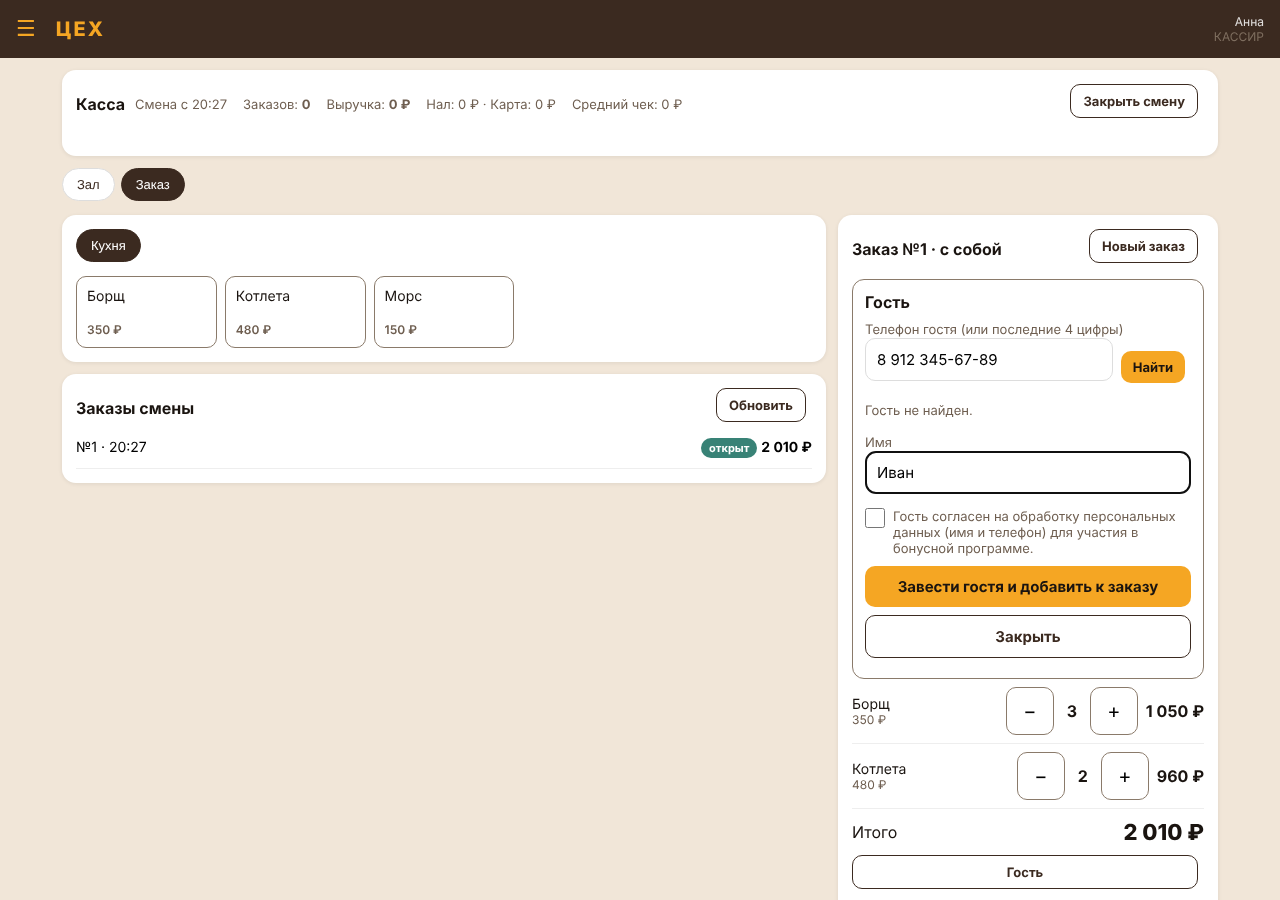
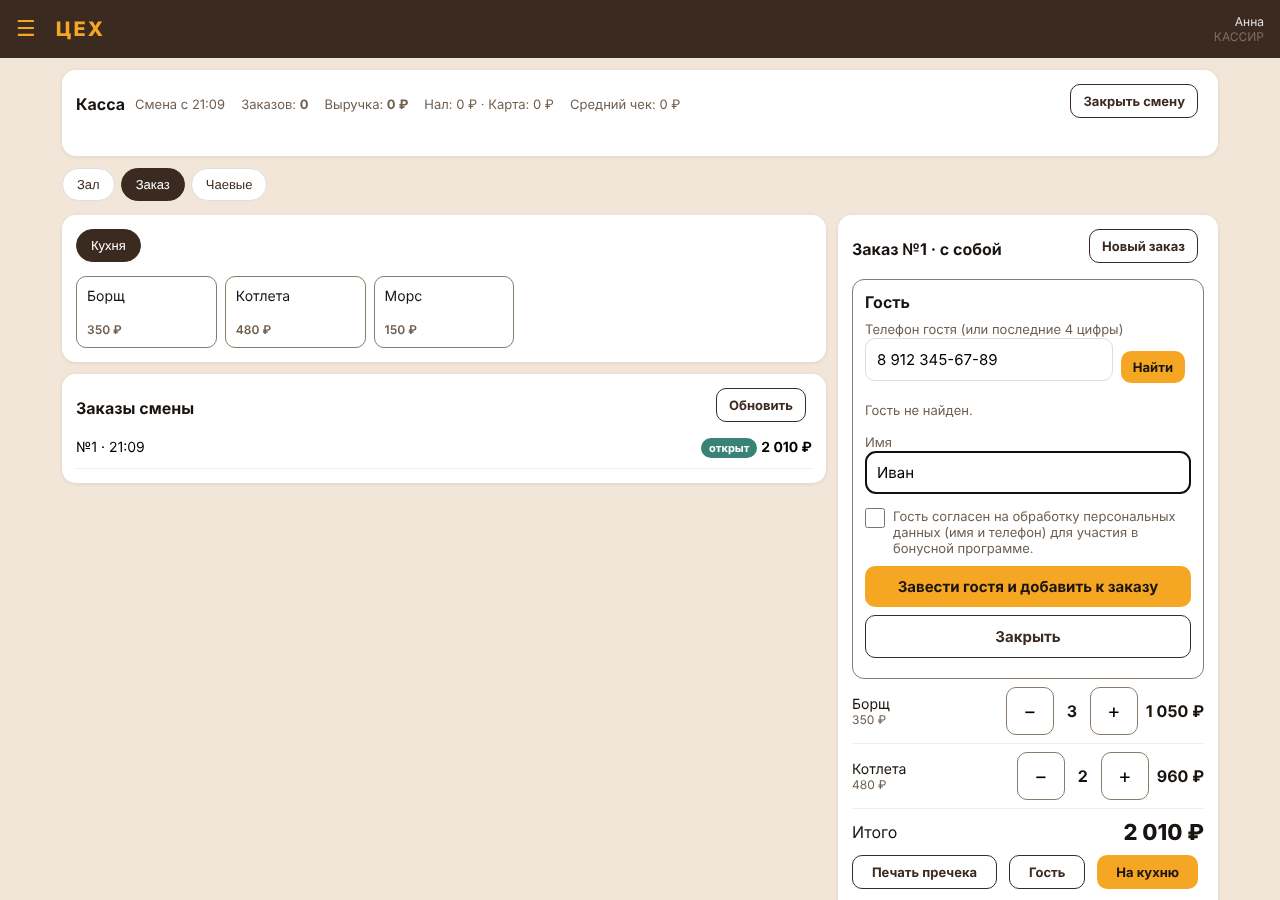
QA: исправлены 3 ошибки кассы, установщик для закрытого репозитория
B3 (S1): getAllRows_ клал весь лист в CacheService; значение больше 100 КБ кэш
не принимает и бросает исключение — растущие листы ронявали бы все операции.
Теперь кэш при переполнении пропускается (Database.gs, SystemHardening.gs).
B1 (S2): заказ «с собой» не доходил до кухни — при оплате неотправленные позиции
уходят на кухню, кнопка «На кухню» для любого заказа.
B2 (S2): пустой заказ блокировал закрытие смены — пустые заказы отменяются при
закрытии, POS_DISCARD_EMPTY_ORDER и кнопка «Убрать пустой заказ».

Установщик: GITHUB_TOKEN и TSEKH_REF из свойств скрипта, файлы через API GitHub
(работает с закрытым репозиторием), понятная ошибка без токена.
replica/bugs.md, replica/test-plan.md; тесты pos_bugs_test.js, installer_test.js;
стенд эмулирует лимит кэша 100 КБ.

Claude-Session: https://claude.ai/code/session_01TtYS2sTh7C8pE1SCJzegNd

Changed region(s): [[0.1562, 0.0933, 0.5312, 0.1244], [0.6875, 0.9333, 0.9375, 0.9956], [0.125, 0.1867, 0.2188, 0.2489]]

diff --git a/replica/tests/pos_bugs_test.js b/replica/tests/pos_bugs_test.js
@@ -1,0 +1,59 @@
+// Регрессия по найденным ошибкам (replica/bugs.md). Запуск: node replica/tests/pos_bugs_test.js
+const assert = require('assert');
+const { ctx: G } = require('./harness.js');
+let failures = 0;
+function step(name, fn) {
+  try { const r = fn(); console.log('OK   ', name); return r; }
+  catch (e) { failures++; console.log('FAIL ', name, '—', e && e.message); }
+}
+function api(a, d, t) { const r = G.processOperation(a, d || {}, t); if (!r.ok) throw new Error(a + ': ' + r.error); return r.data; }
+function apiErr(a, d, t) { const r = G.processOperation(a, d || {}, t); assert(!r.ok, a + ' должен был вернуть ошибку'); return r.error; }
+
+G.PropertiesService.getScriptProperties().setProperty('SPREADSHEET_ID', 'SS');
+G.initializeDatabase();
+G.insertRow_('ORGANIZATIONS', { organization_id: 'ORG-1', название: 'Кафе', статус: 'активна' });
+G.insertRow_('LOCATIONS', { location_id: 'LOC-1', organization_id: 'ORG-1', название: 'Точка', статус: 'активна' });
+function mk(id, role, pin) { const s = 's' + id; G.insertRow_('USERS', { user_id: id, organization_id: 'ORG-1', location_ids: 'LOC-1', имя: role, роль: role, статус: 'активен', pin_hash: G.hashPin_(pin, s), pin_salt: s, failed_attempts: 0, lockout_count: 0 }); }
+mk('USR-M', 'МЕНЕДЖЕР', '482915'); mk('USR-K', 'КАССИР', '739164'); mk('USR-W', 'ОФИЦИАНТ', '615283'); mk('USR-C', 'ПОВАР', '927364');
+G.insertRow_('DISHES', { dish_id: 'DISH-1', organization_id: 'ORG-1', название: 'Борщ', цена_продажи: 350, статус: 'активно' });
+function login(u, p) { const d = api('LOGIN', { userId: u, pin: p }); return d.requires_location ? (api('SELECT_LOCATION', { locationId: 'LOC-1' }, d.token).token || d.token) : d.token; }
+const tM = login('USR-M', '482915'), tK = login('USR-K', '739164'), tW = login('USR-W', '615283'), tC = login('USR-C', '927364');
+api('POS_OPEN_SHIFT', { cashStart: 0 }, tK);
+const hall = api('POS_SAVE_HALL', { название: 'Зал' }, tM);
+const t1 = api('POS_SAVE_TABLE', { hallId: hall.hall_id, название: '1' }, tM);
+
+step('B1: заказ «с собой» после оплаты попадает на экран кухни', () => {
+  let v = api('POS_CREATE_ORDER', {}, tK);
+  v = api('POS_ADD_LINE', { orderId: v.order.order_id, dishId: 'DISH-1', qty: 2, version: v.order.version }, tK);
+  api('POS_PAY', { orderId: v.order.order_id, version: v.order.version, operationId: 'B1', payments: [{ способ: 'карта', сумма: 700 }] }, tK);
+  const q = api('POS_GET_KITCHEN_QUEUE', {}, tC);
+  assert(q.some(x => x.order_id === v.order.order_id && x.стол === 'с собой' && x.статус === 'на_кухне'), 'в очереди кухни нет заказа с собой');
+});
+step('B2: пустой заказ на столе не блокирует закрытие смены кассиром', () => {
+  api('POS_CREATE_ORDER', { tableId: t1.table_id }, tW); // официант открыл стол и ничего не добавил
+  api('POS_CLOSE_SHIFT', { cashFact: 0 }, tK);
+  assert.equal(G.findRows_('POS_ORDERS', o => o.table_id === t1.table_id)[0].статус, 'отменён');
+  api('POS_OPEN_SHIFT', { cashStart: 0 }, tK);
+});
+step('B2: официант сам убирает свой пустой заказ, но не заказ с позициями', () => {
+  const v = api('POS_CREATE_ORDER', { tableId: t1.table_id }, tW);
+  api('POS_DISCARD_EMPTY_ORDER', { orderId: v.order.order_id }, tW);
+  assert.equal(api('POS_GET_FLOOR', {}, tW).halls[0].tables[0].статус, 'свободен');
+  let v2 = api('POS_CREATE_ORDER', { tableId: t1.table_id }, tW);
+  v2 = api('POS_ADD_LINE', { orderId: v2.order.order_id, dishId: 'DISH-1', version: v2.order.version }, tW);
+  assert(/есть позиции/.test(apiErr('POS_DISCARD_EMPTY_ORDER', { orderId: v2.order.order_id }, tW)));
+  api('POS_CANCEL_ORDER', { orderId: v2.order.order_id, reason: 'тест' }, tM);
+});
+step('B3: касса работает, когда лист заказов больше лимита кэша (100 КБ)', () => {
+  // ~900 оплаченных заказов дают POS_ORDERS и POS_ORDER_LINES больше 100 КБ.
+  for (let i = 0; i < 900; i++) {
+    G.insertRow_('POS_ORDERS', { order_id: 'PORD-BULK' + i, organization_id: 'ORG-1', location_id: 'LOC-1', shift_id: 'PSH-OLD', table_id: '', официант_id: 'USR-K',
+      номер: i + 1, гостей: 0, статус: 'оплачен', сумма: 350, скидка: 0, итого: 350, комментарий: 'архивный заказ для проверки объёма', version: 2,
+      создано: G.nowIso_(), обновлено: G.nowIso_(), оплачен: G.nowIso_(), cascade_id: 'CSC-' + i });
+  }
+  const v = api('POS_CREATE_ORDER', {}, tK);
+  assert(v.order.order_id);
+  assert(Array.isArray(api('POS_GET_ORDERS', {}, tK)));
+});
+console.log(failures ? '\n' + failures + ' FAILED' : '\nALL PASSED');
+process.exit(failures ? 1 : 0);

diff --git a/replica/clone-screens/M8-qrmenu.html b/replica/clone-screens/M8-qrmenu.html
@@ -1,1 +1,1 @@
-<!doctype html><html lang="ru"><head><meta charset="utf-8"><style>:root{--bg:#F1E6D8;--card:#FFFFFF;--ink:#1A1410;--muted:#6E5E50;--brand:#3B2A20;--accent:#F5A623;--line:#E5DDD3;}*{box-sizing:border-box}body{margin:0;background:var(--bg);color:var(--ink);font-family:-apple-system,Segoe UI,Roboto,Arial,sans-serif;}header{background:var(--brand);color:#fff;padding:16px;position:sticky;top:0;z-index:2}header h1{margin:0;font-size:20px;color:var(--accent);letter-spacing:.5px}header p{margin:4px 0 0;font-size:13px;opacity:.85}nav{display:flex;gap:6px;overflow-x:auto;padding:10px 16px;background:var(--bg);position:sticky;top:68px;z-index:1;-webkit-overflow-scrolling:touch}nav a{flex:none;padding:8px 14px;border-radius:20px;border:1px solid var(--brand);color:var(--brand);text-decoration:none;font-size:14px;background:var(--card)}main{max-width:720px;margin:0 auto;padding:0 16px 32px}h2{font-size:18px;margin:18px 0 8px;scroll-margin-top:130px}.dish{background:var(--card);border-radius:14px;padding:14px;margin-bottom:10px;box-shadow:0 1px 4px rgba(0,0,0,.06)}.top{display:flex;justify-content:space-between;gap:12px;align-items:baseline}.name{font-weight:700;font-size:16px;overflow-wrap:anywhere}.price{font-weight:800;white-space:nowrap}.meta{color:var(--muted);font-size:13px;margin-top:4px}.allerg{font-size:13px;margin-top:6px;padding:6px 8px;border-radius:8px;background:#FFF6E5}.var{font-size:13px;color:var(--muted);margin-top:6px}.var b{color:var(--ink);font-weight:600}footer{color:var(--muted);font-size:12px;text-align:center;padding:16px}.empty{padding:40px 16px;text-align:center}</style></head><body><header><h1>Кафе «Печка»</h1><p>Стол 7 · Чтобы заказать, позовите официанта</p></header><main><h2 id="c0">Супы</h2><article class="dish"><div class="top"><span class="name">Солянка &lt;script&gt;alert(1)&lt;/script&gt;</span><span class="price">390 ₽</span></div></article><article class="dish"><div class="top"><span class="name">Уха</span><span class="price">420 ₽</span></div></article></main><footer>Цены в рублях. Наличие блюд обновляется каждые 15 минут · обновлено 10-06 20:41.</footer></body></html>
+<!doctype html><html lang="ru"><head><meta charset="utf-8"><style>:root{--bg:#F1E6D8;--card:#FFFFFF;--ink:#1A1410;--muted:#6E5E50;--brand:#3B2A20;--accent:#F5A623;--line:#E5DDD3;}*{box-sizing:border-box}body{margin:0;background:var(--bg);color:var(--ink);font-family:-apple-system,Segoe UI,Roboto,Arial,sans-serif;}header{background:var(--brand);color:#fff;padding:16px;position:sticky;top:0;z-index:2}header h1{margin:0;font-size:20px;color:var(--accent);letter-spacing:.5px}header p{margin:4px 0 0;font-size:13px;opacity:.85}nav{display:flex;gap:6px;overflow-x:auto;padding:10px 16px;background:var(--bg);position:sticky;top:68px;z-index:1;-webkit-overflow-scrolling:touch}nav a{flex:none;padding:8px 14px;border-radius:20px;border:1px solid var(--brand);color:var(--brand);text-decoration:none;font-size:14px;background:var(--card)}main{max-width:720px;margin:0 auto;padding:0 16px 32px}h2{font-size:18px;margin:18px 0 8px;scroll-margin-top:130px}.dish{background:var(--card);border-radius:14px;padding:14px;margin-bottom:10px;box-shadow:0 1px 4px rgba(0,0,0,.06)}.top{display:flex;justify-content:space-between;gap:12px;align-items:baseline}.name{font-weight:700;font-size:16px;overflow-wrap:anywhere}.price{font-weight:800;white-space:nowrap}.meta{color:var(--muted);font-size:13px;margin-top:4px}.allerg{font-size:13px;margin-top:6px;padding:6px 8px;border-radius:8px;background:#FFF6E5}.var{font-size:13px;color:var(--muted);margin-top:6px}.var b{color:var(--ink);font-weight:600}footer{color:var(--muted);font-size:12px;text-align:center;padding:16px}.empty{padding:40px 16px;text-align:center}</style></head><body><header><h1>Кафе «Печка»</h1><p>Стол 7 · Чтобы заказать, позовите официанта</p></header><main><h2 id="c0">Супы</h2><article class="dish"><div class="top"><span class="name">Солянка &lt;script&gt;alert(1)&lt;/script&gt;</span><span class="price">390 ₽</span></div></article><article class="dish"><div class="top"><span class="name">Уха</span><span class="price">420 ₽</span></div></article></main><footer>Цены в рублях. Наличие блюд обновляется каждые 15 минут · обновлено 10-06 21:09.</footer></body></html>

diff --git a/replica/tests/installer_test.js b/replica/tests/installer_test.js
@@ -1,0 +1,39 @@
+// Установщик install/Installer.gs с закрытым репозиторием (имитация GitHub). Запуск: node replica/tests/installer_test.js
+const assert = require('assert'), fs = require('fs'), path = require('path'), vm = require('vm');
+function run(props, privateRepo) {
+  const calls = [], put = {};
+  const resp = (code, body) => ({ getResponseCode: () => code, getContentText: () => body });
+  const authOk = h => !privateRepo || (h && h.Authorization === 'Bearer ghp_test');
+  const C = { JSON, String, encodeURIComponent, Logger: { log: m => { put.log = m; } },
+    SpreadsheetApp: { getActiveSpreadsheet: () => ({ getId: () => 'SS1' }) },
+    PropertiesService: { getScriptProperties: () => ({ getProperty: k => props[k] || null, setProperty: (k, v) => { props[k] = v; } }) },
+    ScriptApp: { getScriptId: () => 'SCRIPT', getOAuthToken: () => 'oauth' },
+    UrlFetchApp: {
+      fetch: (url, o) => {
+        calls.push({ url, headers: o && o.headers });
+        if (url.indexOf('script.googleapis.com') !== -1) { put.files = JSON.parse(o.payload).files; return resp(200, '{}'); }
+        if (!authOk(o.headers)) return resp(404, '{"message":"Not Found"}');
+        return resp(200, JSON.stringify({ sha: 'abc1234def', tree: [{ type: 'blob', path: 'gas/appsscript.json' }, { type: 'blob', path: 'gas/Pos.gs' }, { type: 'blob', path: 'qrmenu/Code.gs' }] }));
+      },
+      fetchAll: reqs => reqs.map(r => { calls.push({ url: r.url, headers: r.headers }); return authOk(r.headers) ? resp(200, '// ' + r.url) : resp(404, ''); })
+    } };
+  vm.createContext(C);
+  vm.runInContext(fs.readFileSync(path.join(__dirname, '../../install/Installer.gs'), 'utf8'), C);
+  try { C.installTsekh(); return { calls, put }; } catch (e) { return { calls, put, error: e.message }; }
+}
+// 1. Закрытый репозиторий без токена — понятная ошибка.
+let r = run({}, true);
+assert(/GITHUB_TOKEN/.test(r.error), r.error);
+// 2. С токеном и веткой из свойств — файлы через api.github.com с авторизацией, только gas/.
+r = run({ GITHUB_TOKEN: 'ghp_test', TSEKH_REF: 'claude/amazing-cori-nctye5' }, true);
+assert(!r.error, r.error);
+assert(r.calls[0].url.indexOf('/git/trees/claude%2Famazing-cori-nctye5') !== -1);
+const files = r.calls.filter(c => c.url.indexOf('/contents/') !== -1);
+assert.equal(files.length, 2);
+assert(files.every(c => c.url.startsWith('https://api.github.com/repos/tceh56-boop/Brave-haccp/contents/gas/') && c.headers.Authorization === 'Bearer ghp_test'));
+assert(!r.calls.some(c => c.url.indexOf('raw.githubusercontent.com') !== -1));
+assert.deepEqual(r.put.files.map(f => f.name).sort(), ['Pos', 'appsscript']);
+// 3. Публичный репозиторий без токена — работает как раньше.
+r = run({}, false);
+assert(!r.error, r.error);
+console.log('INSTALLER PASSED');

diff --git a/gas/Index.html b/gas/Index.html
@@ -5524,7 +5524,8 @@ function posRenderTicket() {
   var acts = [];
   if (o && POS.lines.length && (o.статус === 'открыт' || o.статус === 'пречек')) acts.push('<button class="btn small secondary" onclick="posPrintPrecheck()">Печать пречека</button>');
   if (live && !POS.guest) acts.push('<button class="btn small secondary" onclick="posToggleGuest(true)">Гость</button>');
-  if (o && o.статус === 'открыт' && POS.lines.some(function (l) { return l.статус === 'новая'; }) && (POS.table || posIsWaiter())) acts.push('<button class="btn small" onclick="posSendToKitchen()">На кухню</button>');
+  if (o && o.статус === 'открыт' && POS.lines.some(function (l) { return l.статус === 'новая'; })) acts.push('<button class="btn small" onclick="posSendToKitchen()">На кухню</button>');
+  if (o && o.статус === 'открыт' && !POS.lines.length) acts.push('<button class="btn small secondary" onclick="posDiscardEmpty()">Убрать пустой заказ</button>');
   if (o && o.статус === 'открыт' && POS.lines.length && POS.table) acts.push('<button class="btn small secondary" onclick="posPrecheck()">Пречек</button>');
   if (live && POS.table) acts.push('<button class="btn small secondary" onclick="posMoveOrder()">Перенести</button>');
   if (o && o.статус === 'пречек' && hasClientModule('pos_admin')) acts.push('<button class="btn small secondary" onclick="posReopen()">Снять пречек</button>');
@@ -5890,6 +5891,11 @@ function posLoadReport() {
         return '<tr><td>' + posEsc(op) + (s.закрыта ? '–' + posEsc(new Date(s.закрыта).toLocaleTimeString('ru-RU', { hour: '2-digit', minute: '2-digit' })) : '') + '</td><td>' + posEsc(s.статус) + '</td><td class="num">' + t.заказов + '</td><td class="num">' + posMoney(t.нал) + '</td><td class="num">' + posMoney(t.карта) + '</td><td class="num">' + posMoney(t.возвраты) + '</td><td class="num"><b>' + posMoney(t.выручка) + '</b></td></tr>';
       }).join('') + '</tbody></table>' : '<p class="pos-muted">Смен за период нет.</p>';
   }, function (e) { document.getElementById('posRepErr').textContent = e; });
+}
+
+function posDiscardEmpty() {
+  var o = POS.order; if (!o) return;
+  call('POS_DISCARD_EMPTY_ORDER', { orderId: o.order_id }, function () { posNewOrder(); posLoadOrders(); if (POS.tab === 'floor') posLoadFloor(); }, posErr);
 }
 
 function posCancelOrder() {

diff --git a/replica/tests/harness.js b/replica/tests/harness.js
@@ -30,11 +30,12 @@ const ss = {
   getSheets: () => Object.values(sheets), getId: () => 'SS', deleteSheet() {}
 };
 const props = {};
+// Как в Apps Script: значение кэша не больше 100 КБ, иначе put бросает исключение.
 const cacheStore = {};
 const ctx = {
   console, JSON, Math, Date, Object, Array, String, Number, Boolean, RegExp, Error, isNaN, parseFloat, parseInt, encodeURIComponent,
   SpreadsheetApp: { openById: () => ss, getActiveSpreadsheet: () => ss, flush() {} },
-  CacheService: { getScriptCache: () => ({ get: k => (k in cacheStore ? cacheStore[k] : null), put: (k, v) => { cacheStore[k] = v; }, remove: k => { delete cacheStore[k]; }, removeAll: ks => ks.forEach(k => delete cacheStore[k]), getAll: () => ({}), putAll() {} }) },
+  CacheService: { getScriptCache: () => ({ get: k => (k in cacheStore ? cacheStore[k] : null), put: (k, v) => { if (String(v).length > 100 * 1024) throw new Error('Argument too large: value'); cacheStore[k] = v; }, remove: k => { delete cacheStore[k]; }, removeAll: ks => ks.forEach(k => delete cacheStore[k]), getAll: () => ({}), putAll() {} }) },
   LockService: { getScriptLock: () => ({ tryLock: () => true, waitLock() {}, releaseLock() {}, hasLock: () => true }) },
   PropertiesService: { getScriptProperties: () => ({ getProperty: k => props[k] || null, setProperty: (k, v) => { props[k] = v; }, getProperties: () => props, deleteProperty: k => { delete props[k]; }, setProperties() {} }) },
   Utilities: {

diff --git a/replica/bugs.md b/replica/bugs.md
@@ -1,0 +1,20 @@
+# Ошибки (replica-test, 2026-10-06)
+
+Серьёзность: S1 — потеря данных / дыра / неверные деньги / ядро не работает; S2 — функция сломана без обхода;
+S3 — сломано с обходом или видимо неправильно; S4 — косметика. В список попадает только воспроизведённое.
+
+| ID | S | что | шаги | ожидалось | было | исправлено |
+| --- | --- | --- | --- | --- | --- | --- |
+| B3 | S1 | Большой лист ломает все операции, которые его читают | ~900 заказов в POS_ORDERS → любой POS_* | касса работает | «Не удалось выполнить операцию»: `getAllRows_` кладёт весь лист в CacheService, а значение больше 100 КБ кэш не принимает и бросает исключение (стенд эмулирует этот лимит Apps Script) | Database.gs, SystemHardening.gs: кэш при переполнении пропускается, лист читается из таблицы. Тест `pos_bugs_test.js` B3 |
+| B1 | S2 | Заказ «с собой» не доходит до кухни | кассир: заказ без стола → оплата → экран «Кухня» | заказ в очереди | заказа нет; кнопки «На кухню» у заказа с собой не было | при оплате неотправленные позиции уходят на кухню; кнопка «На кухню» для любого заказа. Тест B1 |
+| B2 | S2 | Пустой заказ блокирует закрытие смены | официант открыл стол и ничего не добавил → кассир «Закрыть смену» | смена закрывается | «Есть неоплаченные заказы (1)», кассир не может отменить (нет прав) | пустые заказы отменяются при закрытии; POS_DISCARD_EMPTY_ORDER и кнопка «Убрать пустой заказ». Тесты B2 |
+| P1 | S1 | Репозиторий с кодом публичный | github.com/tceh56-boop/Brave-haccp | закрытый | `visibility: public` с 24.07.2026 | меняет владелец (Settings → Danger Zone → Change visibility → Private). Установщик переделан под закрытый репозиторий (GITHUB_TOKEN), тест `installer_test.js` |
+
+Ранее найдено и исправлено в ходе сборки (см. build-log.md): сообщения ошибок, скрываемые humanizeError_ (M3),
+порядок истории бонусов (M6), «Чаевые для Игорь» (M7), наличные не следовали за итогом (M1), карточки вне разделов,
+битый хвост Index.html.
+
+## Проверить (не воспроизведено)
+- Время тика 15 минут при большом числе точек и блюд: пересчёт стоп-листа + снимок QR-меню на каждую точку может
+  приблизиться к лимиту 6 минут Apps Script. Диспетчер переносит остаток на следующий тик, но стоит замерить на реальных данных.
+- Возврат заказа из прошлой смены: сервер умеет, в интерфейсе найти такой заказ можно только через отчёт смен (S3, не сделано).

diff --git a/replica/test-plan.md b/replica/test-plan.md
@@ -1,0 +1,24 @@
+# План тестирования модуля «Касса» (ЦЕХ)
+
+Стенд: `replica/tests/harness.js` — все gas/*.gs в Node с имитацией Apps Script (листы, кэш с лимитом 100 КБ,
+блокировки), браузерные сценарии — Chromium/Playwright c тем же сервером. Запуск всего:
+
+    for t in replica/tests/pos_*.js replica/tests/installer_test.js; do node $t | tail -1; done
+    for s in replica/tests/shots_m*.js; do node $s; done
+
+| поток | наборы | ключевые случаи |
+| --- | --- | --- |
+| F01 продажа на кассе | pos_test, pos_fulfill_test, shots_m5 | права, нет смены, чужое блюдо, цена 0, версия заказа (две вкладки), сдача, нехватка, безнал больше суммы, повтор оплаты тем же operationId, списание по ТТК, нет ТТК → задача |
+| F02 заказ официанта | pos_floor_test, shots_m2 | один заказ на стол, чужой стол, позиция на кухне неизменна, дозаказ, перенос, пречек и снятие, официант без оплаты/смены/выручки |
+| F03 стоп-лист | pos_stoplist_test, shots_m4 | авто по годному остатку, без дублей, снятие после прихода, ручной стоп, без смены — без пересчёта |
+| F04 смена | pos_test, pos_refund_report_test, pos_bugs_test | X/Z, расхождение, пустой заказ, итоги в «Экономику» (поступление/выплата) |
+| F05 гость и бонусы | pos_loyalty_test, shots_m6 | согласие на ПД, маска телефона, лимит списания, скидка в SALES, возврат с пересчётом, баланс = проводки, обезличивание |
+| модификаторы | pos_modifiers_test, shots_m3 | мин/макс, чужой модификатор, цена, объединение строк, списание продукта добавки |
+| возвраты и отчёты | pos_refund_report_test, shots_m5 | частичный/полный, лимит безнала, сторно, отчёт по сотрудникам, миграция колонок |
+| чаевые | pos_tips_test, shots_m7 | https-only, своя/чужая ссылка, QR в заказе и на пречеке |
+| QR-меню | pos_qrmenu_test, shots_m8 | состав снимка, постоянный ключ, экранирование, выключение, манифест только чтение |
+| устойчивость | pos_bugs_test | большие листы > 100 КБ кэша, заказ с собой на кухню, пустой заказ |
+| установка | installer_test | закрытый репозиторий: токен, ошибка без токена, только gas/ |
+
+Не автоматизировано (вручную после установки): реальный Apps Script (квоты, время ответа), печать на принтер чеков,
+распознавание настоящей накладной, QR-коды quickchart.io, работа на планшете кассира.

diff --git a/INSTALL.md b/INSTALL.md
@@ -8,6 +8,11 @@
 3. **Настройки проекта** (шестерёнка) → отметьте «Показывать файл манифеста appsscript.json».
 4. В редакторе замените содержимое `appsscript.json` на `install/appsscript.json`,
    а содержимое `Код.gs` — на `install/Installer.gs`. Сохраните.
+   Репозиторий закрытый: **Настройки проекта → Свойства скрипта** → добавьте `GITHUB_TOKEN` —
+   fine-grained токен GitHub (github.com → Settings → Developer settings → Fine-grained tokens),
+   доступ только к репозиторию `Brave-haccp`, право **Contents: Read-only**, срок действия ограничен.
+   Нужна другая ветка — добавьте `TSEKH_REF` (например, `claude/amazing-cori-nctye5`).
+   После установки токен можно удалить из свойств.
 5. Выберите функцию `installTsekh` → **Выполнить** → разрешите доступ.
    В журнале должно появиться «Установлено файлов: …».
 6. Обновите страницу редактора. Выберите `setupProduction` → **Выполнить**.
